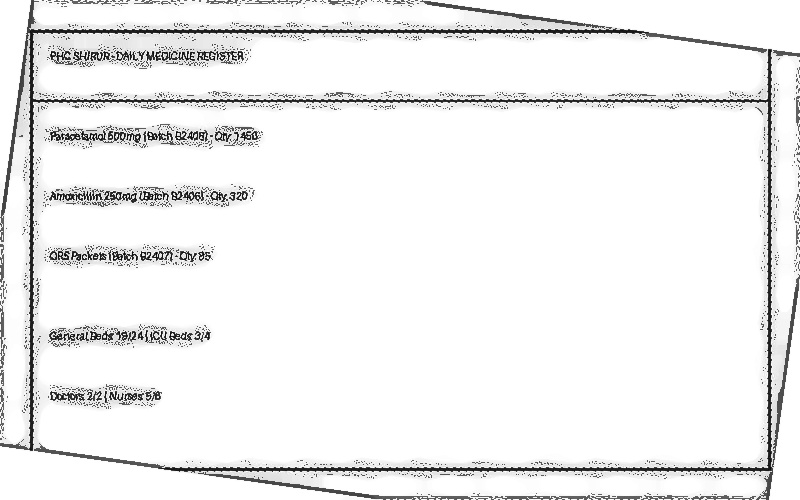
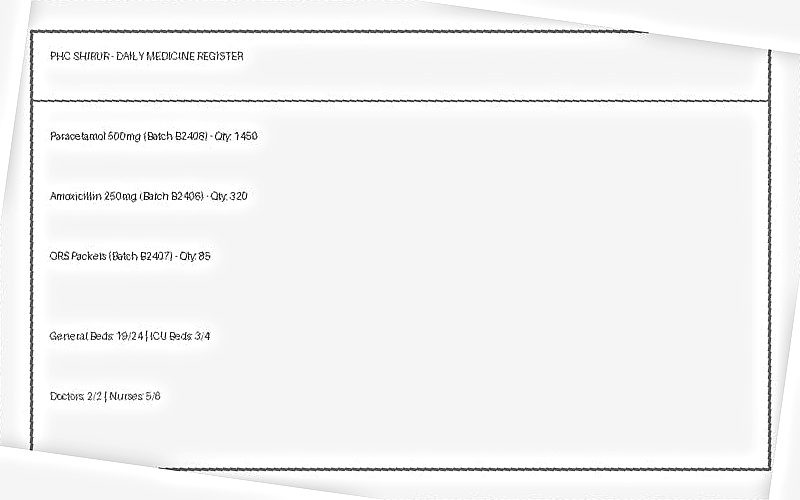
fix(ocr): replace harsh binary threshold with smooth illumination normalization and antialiased unsharp masking

Changed region(s): [[0.0, 0.0, 1.0, 1.0], [0.0625, 0.9, 0.1875, 0.93]]

diff --git a/ai_engine/ocr/image_preprocessor.py b/ai_engine/ocr/image_preprocessor.py
@@ -69,35 +69,32 @@ class ClinicRegisterImagePreprocessor:
                     img, 
                     M, 
                     (w, h), 
-                    flags=cv2.INTER_CUBIC, 
+                    flags=cv2.INTER_LANCZOS4, 
                     borderMode=cv2.BORDER_CONSTANT, 
-                    borderValue=(245, 245, 245)
+                    borderValue=(255, 255, 255)
                 )
             else:
                 straightened = img
 
-            # 3. Morphological Background Whitening (Eliminates paper shadows & yellowing)
+            # 3. Professional Smooth Illumination Normalization (No harsh 1-bit pixelation)
+            # Estimates ambient lighting background using large Gaussian kernel
             sgray = cv2.cvtColor(straightened, cv2.COLOR_BGR2GRAY)
-            dilated = cv2.dilate(sgray, np.ones((7, 7), np.uint8))
-            bg = cv2.medianBlur(dilated, 21)
-            diff = 255 - cv2.absdiff(sgray, bg)
-            normalized_gray = cv2.normalize(diff, None, alpha=0, beta=255, norm_type=cv2.NORM_MINMAX, dtype=cv2.CV_8UC1)
+            bg = cv2.GaussianBlur(sgray, (61, 61), 0)
+            
+            # Divide foreground by background to remove 100% of shadows and paper grayness
+            normalized = cv2.divide(sgray, bg, scale=245.0)
 
-            # 4. Adaptive Document Contrast & Crisp Ink Sharpening
-            clahe = cv2.createCLAHE(clipLimit=3.0, tileGridSize=(8, 8))
-            contrast_boosted = clahe.apply(normalized_gray)
-            binary_mask = cv2.adaptiveThreshold(
-                contrast_boosted, 255, cv2.ADAPTIVE_THRESH_GAUSSIAN_C, cv2.THRESH_BINARY, 21, 10
-            )
+            # 4. Antialiased Unsharp Masking (Crisp, dark, smooth pen strokes without ringing halos)
+            blurred = cv2.GaussianBlur(normalized, (0, 0), 1.5)
+            crisp = cv2.addWeighted(normalized, 1.4, blurred, -0.4, 0)
+            crisp_uint8 = np.clip(crisp, 0, 255).astype(np.uint8)
 
-            # Blend 45% contrast grayscale with 55% crisp binary ink (CamScanner effect)
-            final_enhanced = cv2.addWeighted(contrast_boosted, 0.45, binary_mask, 0.55, 0)
-            final_bgr = cv2.cvtColor(final_enhanced, cv2.COLOR_GRAY2BGR)
+            final_bgr = cv2.cvtColor(crisp_uint8, cv2.COLOR_GRAY2BGR)
 
             # 5. Encode back to JPEG bytes
             success, encoded_jpg = cv2.imencode(".jpg", final_bgr, [int(cv2.IMWRITE_JPEG_QUALITY), 95])
             if success:
-                logger.info(f"Successfully preprocessed register: straightened ({tilt_angle:.2f} deg) & whitened.")
+                logger.info(f"Successfully preprocessed register: smooth normalized ({tilt_angle:.2f} deg).")
                 return encoded_jpg.tobytes()
             return image_bytes
 
